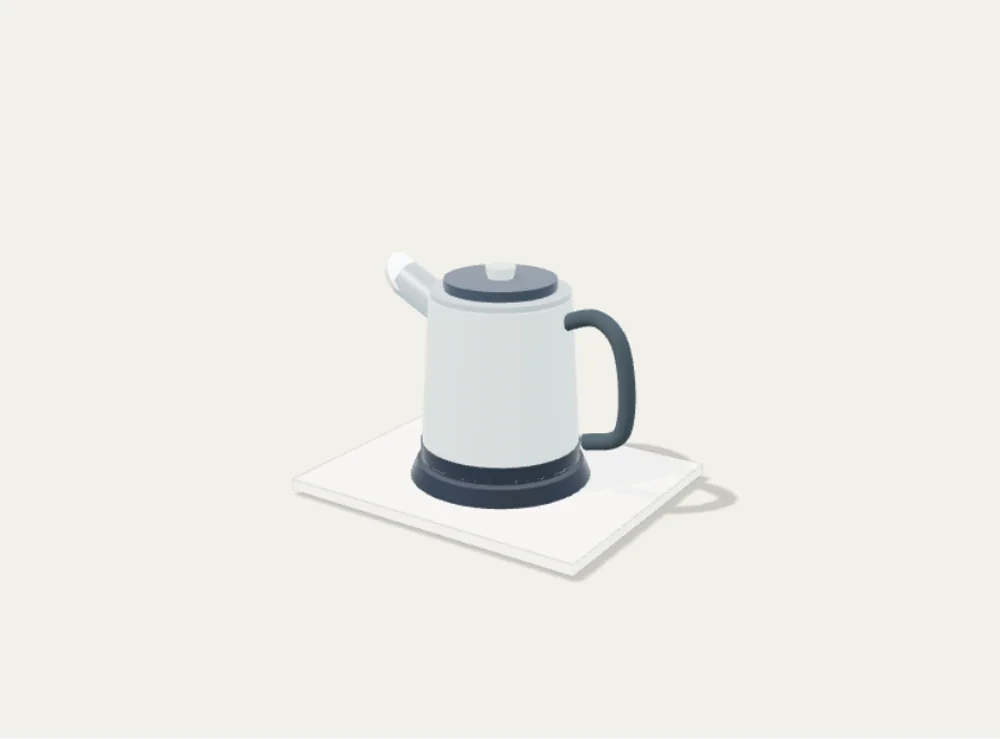
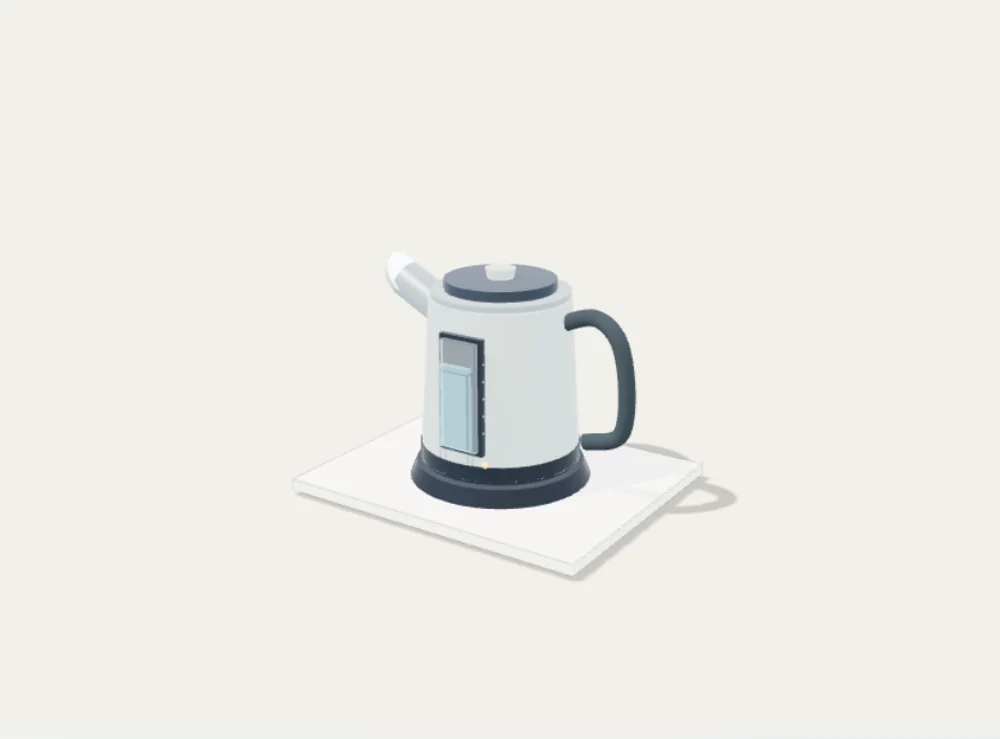
feat(android): kettle, toaster and coffee 3D mechanisms with time-based animation fixes v0.11

Changed region(s): [[0.434, 0.4357, 0.496, 0.6225]]

diff --git a/src/three-viewer.js b/src/three-viewer.js
@@ -139,44 +139,95 @@ function makeKettle(root){
  plate(root,2.6,2.1,.12);
  const base=cylinder(root,.67,.73,.13,mats.dark,0,.24,0);
  const shell=cylinder(root,.56,.64,1.3,mats.stainless,0,1.0,0);
- const band=cylinder(root,.64,.64,.14,mats.dark,0,.4,0);
- const lip=cylinder(root,.55,.55,.045,mats.steel,0,1.68,0);
- const lid=cylinder(root,.44,.44,.08,mats.charcoal,0,1.75,0);
- cylinder(root,.12,.1,.1,mats.stainless,0,1.83,0);
- // Curved insulated handle and hollow pouring spout.
+ cylinder(root,.64,.64,.14,mats.dark,0,.4,0);
+ cylinder(root,.55,.55,.045,mats.steel,0,1.68,0);
+ // The lid pivots around the back: the knob follows the lid rather
+ // than teleporting vertically when the user opens the vessel.
+ const lidHinge=group(root,0,1.7,-.39);
+ cylinder(lidHinge,.44,.44,.08,mats.charcoal,0,.05,.39);
+ cylinder(lidHinge,.12,.1,.1,mats.stainless,0,.12,.39);
+ rod(root,[-.18,1.7,-.41],[.18,1.7,-.41],.04,mats.steel);
  hose(root,[[.47,1.47,-.08],[.82,1.58,-.05],[1.05,1.44,0],[1.08,.72,0],[.78,.6,0]],.065,mats.rubber);
- const spout=rod(root,[-.47,1.42,0],[-.93,1.66,0],.15,mats.steel);
+ rod(root,[-.47,1.42,0],[-.93,1.66,0],.15,mats.steel);
  const nozzle=cylinder(root,.185,.13,.09,mats.stainless,-.98,1.67,0);
  nozzle.rotation.z=-Math.PI*.34;
- const window=block(root,.025,.6,.11,mats.glass,-.57,1.02,.04);
- const level=cylinder(root,.54,.54,.42,liquid,0,.58,0);
- led(root,.2,.49,.51,alertMat);
+ // Exterior calibrated sight glass stays visible even though the body
+ // is opaque. Its level is driven by the actual ColorFigures water state.
+ block(root,.37,.91,.045,mats.dark,.1,1.05,.662);
+ block(root,.31,.85,.055,frosted,.1,1.05,.696);
+ const visibleWater=block(root,.25,.79,.06,liquid,.1,.86,.745);
+ for(let i=0;i<5;i++){
+  const y=.78+i*.135;
+  rod(root,[.22,y,.66],[.29,y,.66],.008,mats.stainless);
+ }
+ badge(root,"H2O",.10,1.46,.68,.18,.095,"#273c4a","#e6f5fb");
+ // An orange heating-ring and LED expose the hidden heating resistor.
+ const heaterMaterial=material({color:0xda693d,emissive:0xfa672b,emissiveIntensity:.07,metalness:.18,roughness:.35});
+ const heater=ring(root,.59,.023,heaterMaterial,0,.42,0,Math.PI/2);
+ const ledMat=material({color:0xfbb673,emissive:0xff5b21,emissiveIntensity:.07});
+ led(root,.23,.48,.54,ledMat);
  const steam=group(root,-.96,1.7,0);
  const puffs=[];
- for(let i=0;i<7;i++)puffs.push(sphere(steam,.08+((i*7)%5)*.009,steamMaterial,0,i*.18,0));
- return {shells:[shell],update(s,time){
+ for(let i=0;i<8;i++)puffs.push(sphere(steam,.073+(i%4)*.012,steamMaterial,0,i*.17,0));
+ let lidAngle=0,lidTarget=0;
+ return {
+  shells:[shell],
+  needsAnimation:()=>Math.abs(lidAngle-(lidTarget||0))>.007,
+  update(s,dt,time){
   const water=truncate(s.water,0,1);
-  level.scale.y=Math.max(.02,water*2.3);level.position.y=.42+water*.57;
+  const height=.75*water;
+  visibleWater.scale.y=Math.max(.005,height/.79);
+  visibleWater.position.y=.655+height/2;
   const hot=truncate(s.hot,0,1);
-  alertMat.emissiveIntensity=s.heating?(.25+hot*.85):.1;
+  heaterMaterial.emissiveIntensity=s.heating?.35+hot*1.25:.035;
+  ledMat.emissiveIntensity=s.heating?1.35:.06;
+  const vapor=truncate((s.heating?hot*.92:0)+Number(s.steam||0),0,1);
   for(let i=0;i<puffs.length;i++){
-   const p=puffs[i],a=(time*.33+i/7)%1;
-   p.position.set(Math.sin(i*2.7+time*.6)*.08,a*.72,Math.cos(i*1.7+time*.5)*.05);
-   p.scale.setScalar((.4+.85*a)*((s.heating||s.steam)?1:.001));
+   const puff=puffs[i],a=(time*.28+i/puffs.length)%1;
+   puff.position.set(Math.sin(i*2.7+time*.8)*.10,a*.85,Math.cos(i*1.7+time*.7)*.08);
+   puff.scale.setScalar(vapor*(.45+.95*a)+.0001);
   }
-  lid.position.y=s.lid?2.05:1.75;
-  }};
+  // Frame-rate-independent easing; keeps rendering until the lid arrives.
+  lidTarget=s.lid?-.74:0;
+  const alpha=1-Math.exp(-9*Math.min(Math.max(dt,0),.05));
+  lidAngle+=(lidTarget-lidAngle)*alpha;
+  if(Math.abs(lidAngle-lidTarget)<.006)lidAngle=lidTarget;
+  lidHinge.rotation.x=lidAngle;
+ }};
 }
 function makeToaster(root){
  plate(root,2.6,2.1,.12);
  const body=block(root,1.65,1.35,.98,mats.warm,0,.86,0);
- const rim=block(root,1.54,.08,.9,mats.stainless,0,1.54,0);
- const slotMat=new THREE.MeshStandardMaterial({color:0x17191d,roughness:.84});
+ block(root,1.54,.08,.9,mats.stainless,0,1.54,0);
+ const slotMat=material({color:0x191e24,roughness:.88});
+ const heatMat=material({color:0x773d2c,emissive:0xff6328,emissiveIntensity:.06,metalness:.28,roughness:.52});
  const breads=[];
  for(const x of [-.37,.37]){
-  block(root,.42,.01,.78,slotMat,x,1.588,0);
-  const bread=block(root,.38,.55,.58,mats.bread,x,1.57,0);
-  breads.push(bread);
+  block(root,.42,.012,.78,slotMat,x,1.588,0);
+  // Recessed glass-front heating chamber reveals glowing coils behind
+  // a protective wire guard.
+  block(root,.56,.82,.027,mats.dark,x,.99,.51);
+  for(let i=0;i<6;i++){
+   const xx=x-.21+i*.084;
+   rod(root,[xx,.67,.545],[xx,1.33,.545],.021,heatMat);
+  }
+  for(let i=0;i<3;i++){
+   const yy=.73+i*.24;
+   rod(root,[x-.24,yy,.565],[x+.24,yy,.565],.008,mats.steel);
+  }
+  const crust=material({color:0xdba56c,roughness:.8});
+  const crumb=material({color:0xf4d8a5,roughness:.88});
+  const shape=new THREE.Shape();
+  shape.moveTo(-.20,-.27);
+  shape.lineTo(-.20,.13);
+  shape.bezierCurveTo(-.24,.40,.20,.41,.20,.13);
+  shape.lineTo(.20,-.27);shape.closePath();
+  const slice=group(root,x,1.57,0);
+  const outline=new THREE.Mesh(new THREE.ExtrudeGeometry(shape,{depth:.10,bevelEnabled:true,bevelThickness:.028,bevelSize:.025,bevelSegments:2,curveSegments:9}),crust);
+  outline.scale.set(1.09,1.1,1.01);outline.castShadow=true;slice.add(outline);
+  const center=new THREE.Mesh(new THREE.ShapeGeometry(shape,12),crumb);
+  center.position.z=.137;slice.add(center);
+  breads.push({slice,crumb,crust});
  }
  const lever=group(root,.87,1.1,.45);
  cylinder(lever,.085,.085,.31,mats.stainless,0,0,0).rotation.z=Math.PI/2;
@@ -184,14 +235,22 @@ function makeToaster(root){
  const dial=cylinder(root,.18,.18,.11,mats.dark,.7,.64,.51);
  dial.rotation.x=Math.PI/2;
  badge(root,"TOAST  01–05",0,.91,.515,.92,.18,"#272f3a","#ffe6b6");
- const heating=group(root,0,.7,.5);
- const filament=block(heating,1.2,.065,.01,alertMat,0,0,0);
+ const power=led(root,-.7,.47,.53,heatMat);
  return {shells:[body],update(s){
-  const lifting=s.toasting?.03:s.done?(.7+(s.eject||0)*.18):s.bread?.4:-.12;
-  breads.forEach(b=>{b.visible=!!s.bread;b.position.y=1.18+lifting;const t=truncate(s.hot,0,1);b.material=t>.55?mats.amber:mats.bread;});
-  lever.position.y=s.toasting?.65:1.1;
-  filament.material.emissiveIntensity=s.toasting?.7+truncate(s.hot,0,1)*.7:.05;
-  }};
+  const hot=truncate(s.hot,0,1);
+  const lift=s.toasting?-.27:s.done?.12+(truncate(s.eject,0,1)*.28):s.bread?-.09:-.4;
+  breads.forEach(({slice,crumb,crust})=>{
+   slice.visible=!!s.bread;
+   slice.position.y=1.59+lift;
+   const shade=Math.pow(hot,.75);
+   crumb.color.set(0xf4d8a5).lerp(new THREE.Color(0xb57a48),shade*.85);
+   crust.color.set(0xdba56c).lerp(new THREE.Color(0x8f5234),shade*.75);
+  });
+  lever.position.y=s.toasting?.67:1.1;
+  heatMat.emissiveIntensity=s.toasting?.38+hot*1.1:Math.max(.04,hot*.1);
+  power.scale.setScalar(s.toasting?1.18:.7);
+  dial.rotation.z=(truncate(s.level||2,1,5)-3)*-.23;
+ }};
 }
 function makeFan(root){
  plate(root,2.5,2.2,.12);
@@ -311,24 +370,59 @@ function makeCoffee(root){
  const body=block(root,1.2,1.95,.95,mats.stainless,-.44,1.27,-.12);
  block(root,1.6,.21,1.18,mats.dark,0,2.31,-.09);
  block(root,.96,.12,.81,mats.dark,.42,1.41,.35);
- const tank=block(root,.34,1.2,.6,frosted,-.97,1.37,-.08);
- const level=block(root,.28,.7,.54,liquid,-.98,1.04,-.08);
+ // A translucent water reservoir with moving water level.
+ // Place the water sight glass on the *outside* of the opaque chassis.
+ // Otherwise the water disappears behind the body at typical camera angles.
+ block(root,.41,1.17,.11,mats.dark,-.82,1.37,.435);
+ block(root,.35,1.10,.12,frosted,-.82,1.37,.505);
+ const waterColumn=block(root,.28,.90,.11,liquid,-.82,1.03,.582);
+ badge(root,"H2O",-.82,1.96,.596,.2,.12);
+ // Exposed filter funnel, removable brown grounds and pouring nozzle.
  const filter=cylinder(root,.36,.12,.39,mats.dark,.42,1.79,.19);
+ const grounds=cylinder(root,.27,.25,.06,mats.coffee,.42,1.98,.19);
+ cylinder(root,.10,.10,.14,mats.steel,.42,1.49,.26);
+ const shower=group(root,.4,2.18,.19);
+ const showerDrops=Array.from({length:3},(_,i)=>sphere(shower,.023,liquid,(i-1)*.08,0,0));
+ // Transparent jug with its liquid level moving up during extraction.
  const jug=group(root,.49,.7,.47);
  cylinder(jug,.39,.32,.81,frosted,0,0,0);
  cylinder(jug,.34,.34,.05,mats.steel,0,.44,0);
  hose(jug,[[.32,.16,0],[.65,.19,0],[.66,-.28,0],[.34,-.28,0]],.055,mats.rubber);
  const coffee=cylinder(jug,.32,.32,.25,mats.coffee,0,-.23,0);
  const drip=group(root,.43,1.36,.43);
- const drops=Array.from({length:5},()=>sphere(drip,.025,liquid,0,0,0));
- const hot=led(root,.06,1.59,.49,alertMat);
+ const drops=Array.from({length:6},()=>sphere(drip,.027,liquid,0,0,0));
+ const hotMat=material({color:0xf6a36a,emissive:0xff6a24,emissiveIntensity:.08});
+ led(root,.06,1.59,.49,hotMat);
+ const steam=group(root,.48,1.17,.48);
+ const puffs=Array.from({length:6},(_,i)=>sphere(steam,.06+(i%3)*.012,steamMaterial,0,0,0));
  badge(root,"BREW  /  FILTER",-.47,1.99,.39,.9,.16,"#304456","#fdf5e5");
- return {shells:[body],update(s,time){
-  const v=truncate(s.coffee,0,1);
-  coffee.scale.y=Math.max(.01,v*2.2);coffee.position.y=-.38+v*.36;
-  level.scale.y=Math.max(.02,truncate(s.water,0,1));level.position.y=.71+truncate(s.water,0,1)*.35;
-  drops.forEach((p,i)=>{const k=(time*1.9+i*.19)%1;p.visible=!!s.brewing;p.position.y=-k*.45;});
-  hot.material.emissiveIntensity=s.brewing?1:.15;
+ return {shells:[body],update(s,dt,time){
+  const volume=truncate(s.coffee,0,1),water=truncate(s.water,0,1);
+  const coffeeHeight=.56*volume;
+  coffee.scale.y=Math.max(.006,coffeeHeight/.25);
+  coffee.position.y=-.38+coffeeHeight/2;
+  const waterHeight=.80*water;
+  waterColumn.scale.y=Math.max(.006,waterHeight/.90);
+  waterColumn.position.y=.84+waterHeight/2;
+  grounds.visible=!!s.grounds;
+  const brewing=!!s.brewing;
+  drops.forEach((p,i)=>{
+   const k=(time*1.7+i/drops.length)%1;
+   p.visible=brewing;
+   p.position.y=-k*.48;
+   p.scale.setScalar(.75+.32*Math.sin(k*Math.PI));
+  });
+  showerDrops.forEach((p,i)=>{
+   const k=(time*1.4+i/showerDrops.length)%1;
+   p.visible=brewing;
+   p.position.y=-k*.17;
+  });
+  puffs.forEach((p,i)=>{
+   const k=(time*.34+i/puffs.length)%1;
+   p.position.set(Math.sin(time*.5+i)*.055,k*.38,Math.cos(i*2)*.055);
+   p.scale.setScalar((brewing||volume>.1)?(.35+.65*k):.0001);
+  });
+  hotMat.emissiveIntensity=brewing?1.3:.08;
  }};
 }
 function makeFlashlight(root){
@@ -379,7 +473,7 @@ function makeWashing(root){
  badge(root,"WASH  ·  ECO",.37,2.36,.838,.65,.12,"#29394b","#fff4db");
  for(let i=0;i<3;i++)led(root,.25+i*.2,2.36,.84,i===0?glow:mats.steel);
  const drawer=block(root,.46,.12,.32,mats.stainless,-.7,2.36,.7);
- return {shells:[body],update(s,time){
+ return {shells:[body],update(s,dt,time){
   const active=!!s.run;
   drum.rotation.z=active?time*1.9:0;
   const waterLevel=active?.22:0;
@@ -415,7 +509,7 @@ function makeVending(root){
  badge(root,"01  02  03  04",-.28,2.37,.77,1.33,.12);
  const slot=group(root,0,.47,.81);
  const hatch=block(slot,1.1,.19,.06,mats.steel,-.26,.0,0);
- return {shells:[body],update(s,time){
+ return {shells:[body],update(s,dt,time){
   const busy=!!s.drop||!!s.run;
   hatch.rotation.x=busy?-.4*Math.sin(time*7):0;
  }};
@@ -657,7 +751,7 @@ export function createObjectViewer(container,id){
     if(disposed)return;
     frame=requestAnimationFrame(tick);
     if(!active||!renderer.domElement.isConnected)return;
-    const running=Boolean(state.run||state.speed||state.heating||state.brewing||state.toasting||state.pumping||state.oscillate||(Number(state.steam)>0));
+    const running=Boolean(machine.needsAnimation?.()||state.run||state.speed||state.heating||state.brewing||state.toasting||state.pumping||state.oscillate||(Number(state.steam)>0));
     if(cameraMove){
       const elapsed=Math.min(1,(timestamp-cameraMove.start)/440);
       const eased=1-(1-elapsed)**3;

diff --git a/tests/figures.test.js b/tests/figures.test.js
@@ -114,3 +114,12 @@ test("fan PBR geometry has pivoted, curved blades and a stationary guard",()=>{
  assert.match(fan,/pivot\.rotation\.y=s\.oscillate/);
  assert.ok(fan.indexOf("ring(pivot")>fan.indexOf("const rotor=group"),"guard must be attached to pivot, not rotor");
 });
+
+test("3D mechanisms consume absolute time, not just frame delta",()=>{
+ const source=readFileSync(join(root,"src","three-viewer.js"),"utf8");
+ assert.equal((source.match(/update\(s,time\)\{/g)||[]).length,0);
+ assert.equal((source.match(/update\(s,dt,time\)\{/g)||[]).length,4);
+ assert.match(source,/machine\.update\(state,dt,time\)/);
+ assert.match(source,/needsAnimation:\(\)=>Math\.abs\(lidAngle/);
+ assert.match(source,/1-Math\.exp\(-9\*Math\.min/);
+});

diff --git a/README.md b/README.md
@@ -321,3 +321,37 @@ dont l'état est synchronisé avec la simulation existante.
 La géométrie reste entièrement procédurale et disponible hors ligne.
 Les tests de catalogue, d'interaction et de rendu 3D restent actifs.
 La CI construit l'APK Android 0.10.0 (versionCode 10).
+
+
+## Version 0.11 — trois appareils 3D améliorés
+
+Cette version approfondit les visualisations procédurales sans ajouter
+de ressources distantes :
+
+- **Bouilloire :** jauge d'eau graduée nettement visible sur la face avant,
+  niveau lié aux actions, couvercle sur charnière qui s'ouvre
+  progressivement, anneau chauffant et vapeur.
+- **Grille-pain :** deux chambres avec résistances visibles et protections,
+  tranches arrondies avec croûte et mie qui brunissent selon la cuisson,
+  chariot à levier et éjection synchronisés.
+- **Cafetière filtre :** réservoir transparent déplacé sur la face visible,
+  eau à niveau variable, filtre avec café moulu, gouttes d'eau chaude,
+  verseuse qui se remplit et vapeur stylisée.
+- **Animations :** correction du passage du temps absolu au moteur pour
+  la bouilloire, la cafetière, le lave-linge et le distributeur.
+  Le couvercle continue son interpolation jusqu'à sa position finale.
+- **Tests visuels :** Playwright et Sharp comparent les images réelles du
+  WebGL avant et après une action sur les trois appareils. Le mouvement
+  du couvercle est également vérifié.
+
+Captures générées depuis les modèles réels :
+
+![Bouilloire 3D améliorée](docs/previews/kettle.webp)
+![Grille-pain 3D amélioré](docs/previews/toaster.webp)
+![Cafetière 3D améliorée](docs/previews/coffee.webp)
+
+Ces modèles restent des schémas pédagogiques stylisés, et non des
+reconstitutions industrielles exactes. Les sons existants demeurent
+générés localement, sans piste audio téléchargée.
+
+GitHub Actions produit l'APK Android de test 0.11.0 (versionCode 11).
